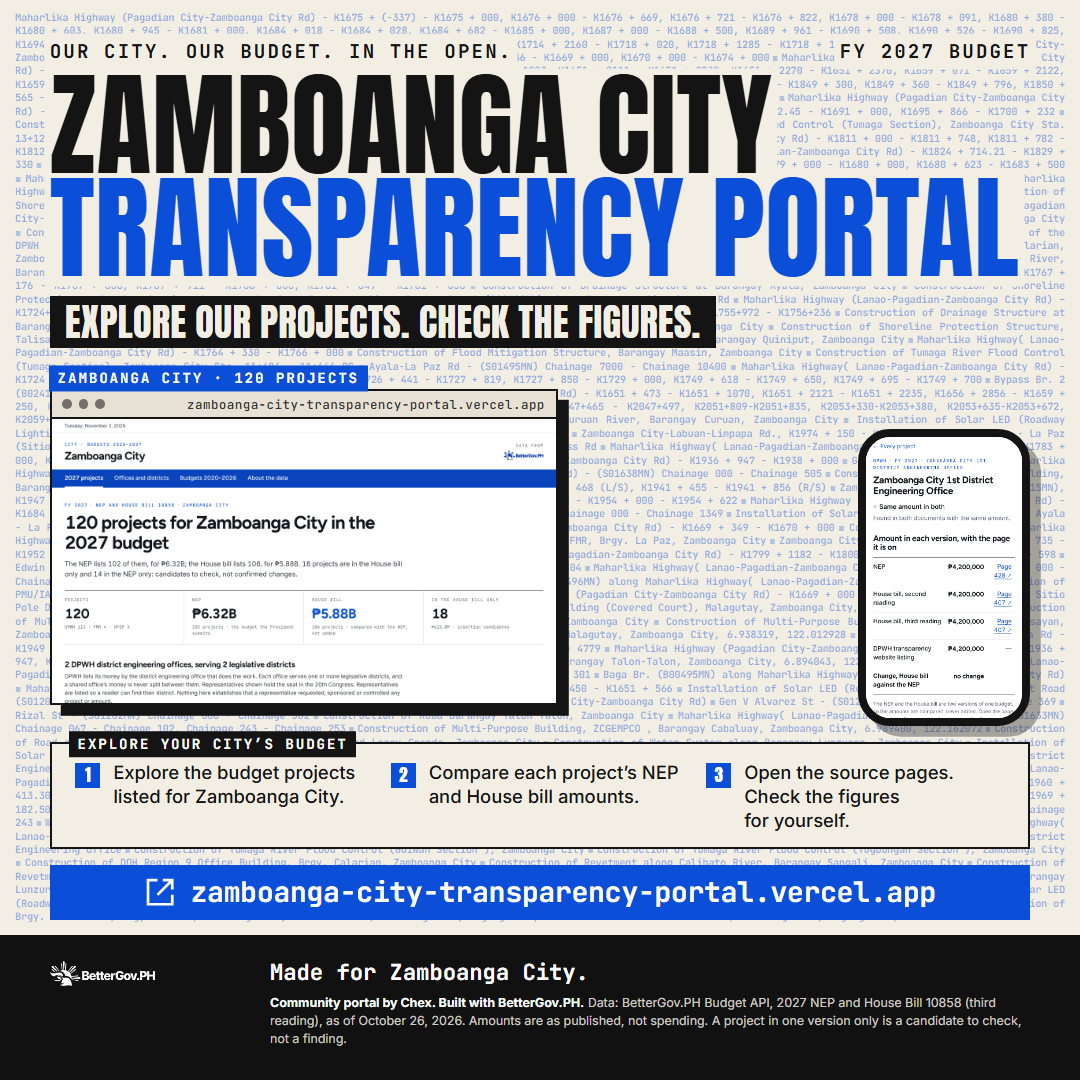
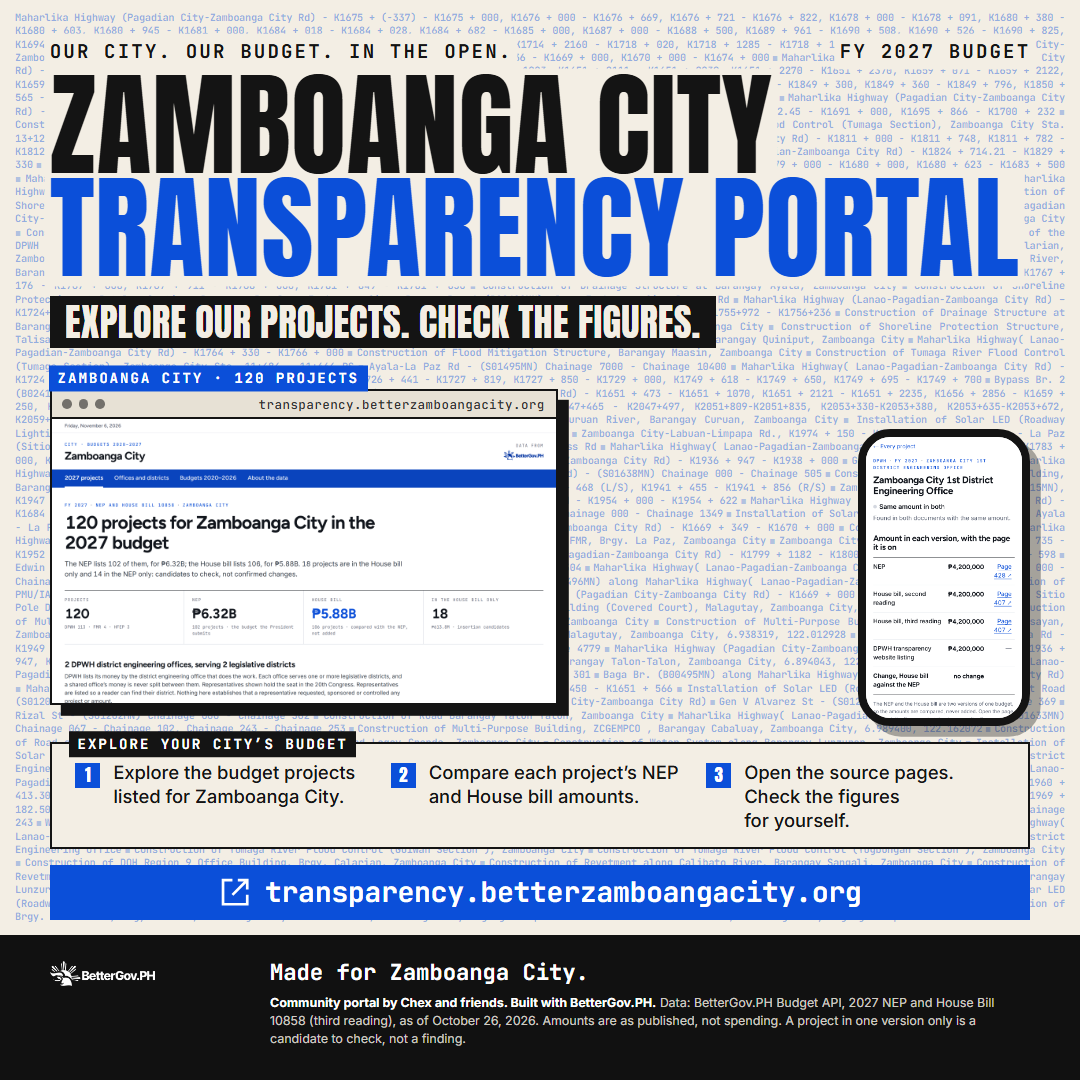
feat: update portal URL and contributor credits
- use the new Better Zamboanga City portal domain
- credit Chex and friends with separate GitHub links
- regenerate both poster formats

diff --git a/src/config.ts b/src/config.ts
@@ -53,7 +53,12 @@ export interface PortalConfig {
   /** Short form for headings: "Bohol". Defaults to `name`. */
   shortName?: string;
   /** Who runs this copy of the portal. Shown in the footer. */
-  operator: { name: string; url?: string; email?: string };
+  operator: {
+    name: string;
+    url?: string;
+    email?: string;
+    contributor?: { name: string; url?: string };
+  };
   /** Optional logo: a path under public/ ("/brand/lgu-seal.png") or a URL. */
   logo?: string;
   /** Canonical URL of this deployment, for link previews. */
@@ -105,6 +110,7 @@ export function configProblems(config: PortalConfig): string[] {
   }
   if (!config.name.trim()) problems.push('name is empty.');
   if (!config.operator?.name?.trim()) problems.push('operator.name is empty: say who runs this portal.');
+  if (config.operator?.contributor && !config.operator.contributor.name.trim()) problems.push('operator.contributor.name is empty.');
   const { offices = [], places = [], districts = [], exclude = [] } = config.scope;
   if (!offices.length && !places.length) {
     problems.push('scope needs at least one office or place, or the portal has no projects.');

diff --git a/scripts/build-poster.ts b/scripts/build-poster.ts
@@ -183,7 +183,7 @@ function html(f: Format, d: Awaited<ReturnType<typeof loadData>>, shots: { deskt
     'Open the source pages. Check the figures for yourself.',
   ];
   const fine =
-    `<strong>Community portal by ${esc(config.operator.name)}. Built with BetterGov.PH.</strong> Data: BetterGov.PH Budget API, 2027 NEP and House Bill 10858 (third reading), as of ${d.asOf}. ` +
+    `<strong>Community portal by ${esc(config.operator.name)}${config.operator.contributor ? ` and ${esc(config.operator.contributor.name)}` : ''}. Built with BetterGov.PH.</strong> Data: BetterGov.PH Budget API, 2027 NEP and House Bill 10858 (third reading), as of ${d.asOf}. ` +
     `Amounts are as published, not spending. A project in one version only is a candidate to check, not a finding.`;
 
   return `<!doctype html><html><head><meta charset="utf-8">

diff --git a/src/components/Chrome.tsx b/src/components/Chrome.tsx
@@ -109,6 +109,13 @@ export function Footer() {
               ) : (
                 config.operator.name
               )}
+              {config.operator.contributor && (
+                <> and {config.operator.contributor.url ? (
+                  <a href={config.operator.contributor.url} target="_blank" rel="noopener">
+                    {config.operator.contributor.name}
+                  </a>
+                ) : config.operator.contributor.name}</>
+              )}
               {config.operator.email && (
                 <> · <a href={`mailto:${config.operator.email}`}>{config.operator.email}</a></>
               )}

diff --git a/portal.config.ts b/portal.config.ts
@@ -14,8 +14,12 @@ export default defineConfig({
   kind: 'city',
   name: 'Zamboanga City',
   shortName: 'Zamboanga City',
-  operator: { name: 'Chex', url: 'https://github.com/RALPH22222' },
-  siteUrl: 'https://zamboanga-city-transparency-portal.vercel.app',
+  operator: {
+    name: 'Chex',
+    url: 'https://github.com/RALPH22222',
+    contributor: { name: 'friends', url: 'https://github.com/BetterZamboangaCity-org' },
+  },
+  siteUrl: 'https://transparency.betterzamboangacity.org',
   scope: {
     offices: [
       'Zamboanga City 1st District Engineering Office',

diff --git a/docs/audit.md b/docs/audit.md
@@ -164,8 +164,9 @@ individually or together. Re-run `$impeccable audit` after fixes.
 
 ## City configuration and checks
 
-Configured operator: Chex, linking to `https://github.com/RALPH22222`.
-Canonical URL: `https://zamboanga-city-transparency-portal.vercel.app`.
+Configured operator: Chex and friends, linking to `https://github.com/RALPH22222` and
+`https://github.com/BetterZamboangaCity-org` respectively.
+Canonical URL: `https://transparency.betterzamboangacity.org`.
 Both published office names and district IDs were verified against the live API.
 
 The scope contains 120 FY 2027 lines: 113 DPWH, four farm-to-market roads, and three

diff --git a/README.md b/README.md
@@ -1,8 +1,8 @@
 # Zamboanga City Transparency Portal
 
 This fork is configured for **Zamboanga City**, operated by
-[Chex](https://github.com/RALPH22222). Its configured deployment URL is
-<https://zamboanga-city-transparency-portal.vercel.app>.
+[Chex](https://github.com/RALPH22222) and [friends](https://github.com/BetterZamboangaCity-org). Its configured deployment URL is
+<https://transparency.betterzamboangacity.org/>.
 
 It follows the Zamboanga City 1st and 2nd District Engineering Offices and searches
 for `Zamboanga City`. These are national budget records associated with the city,
